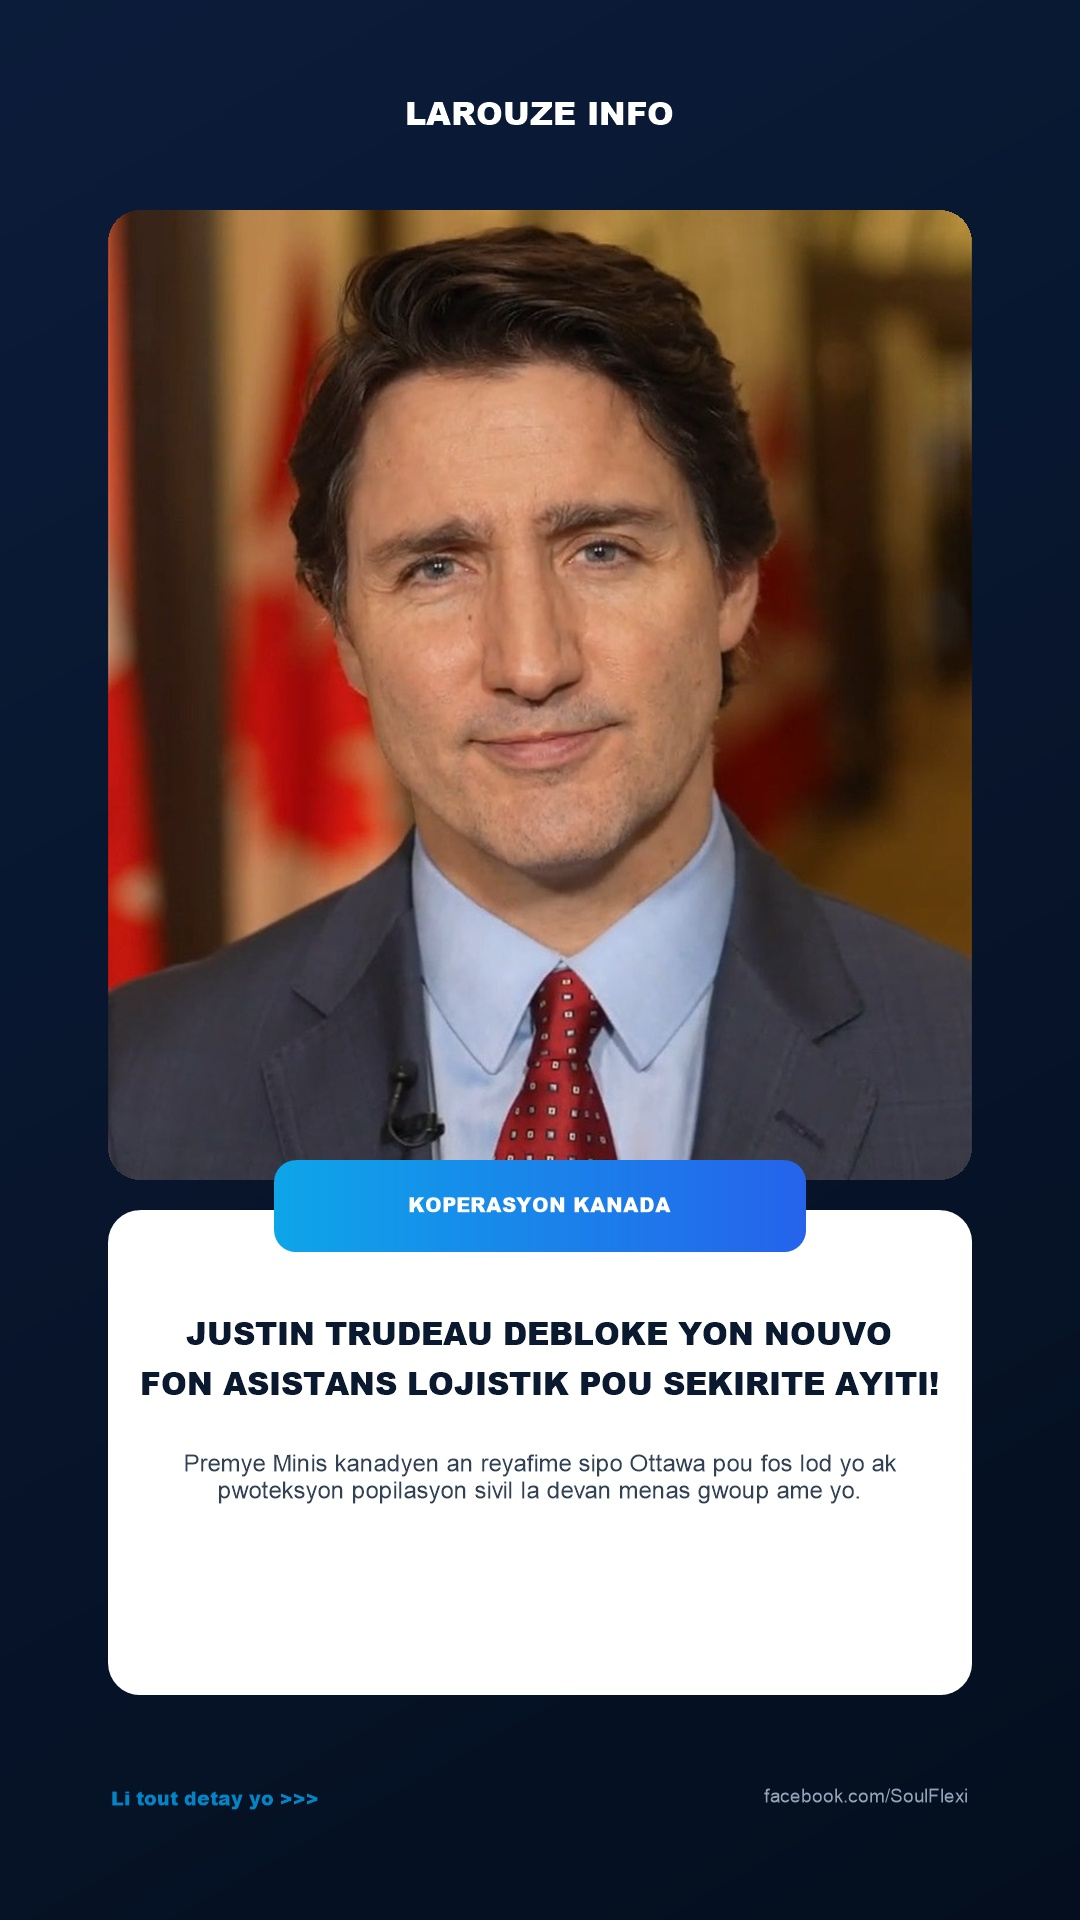
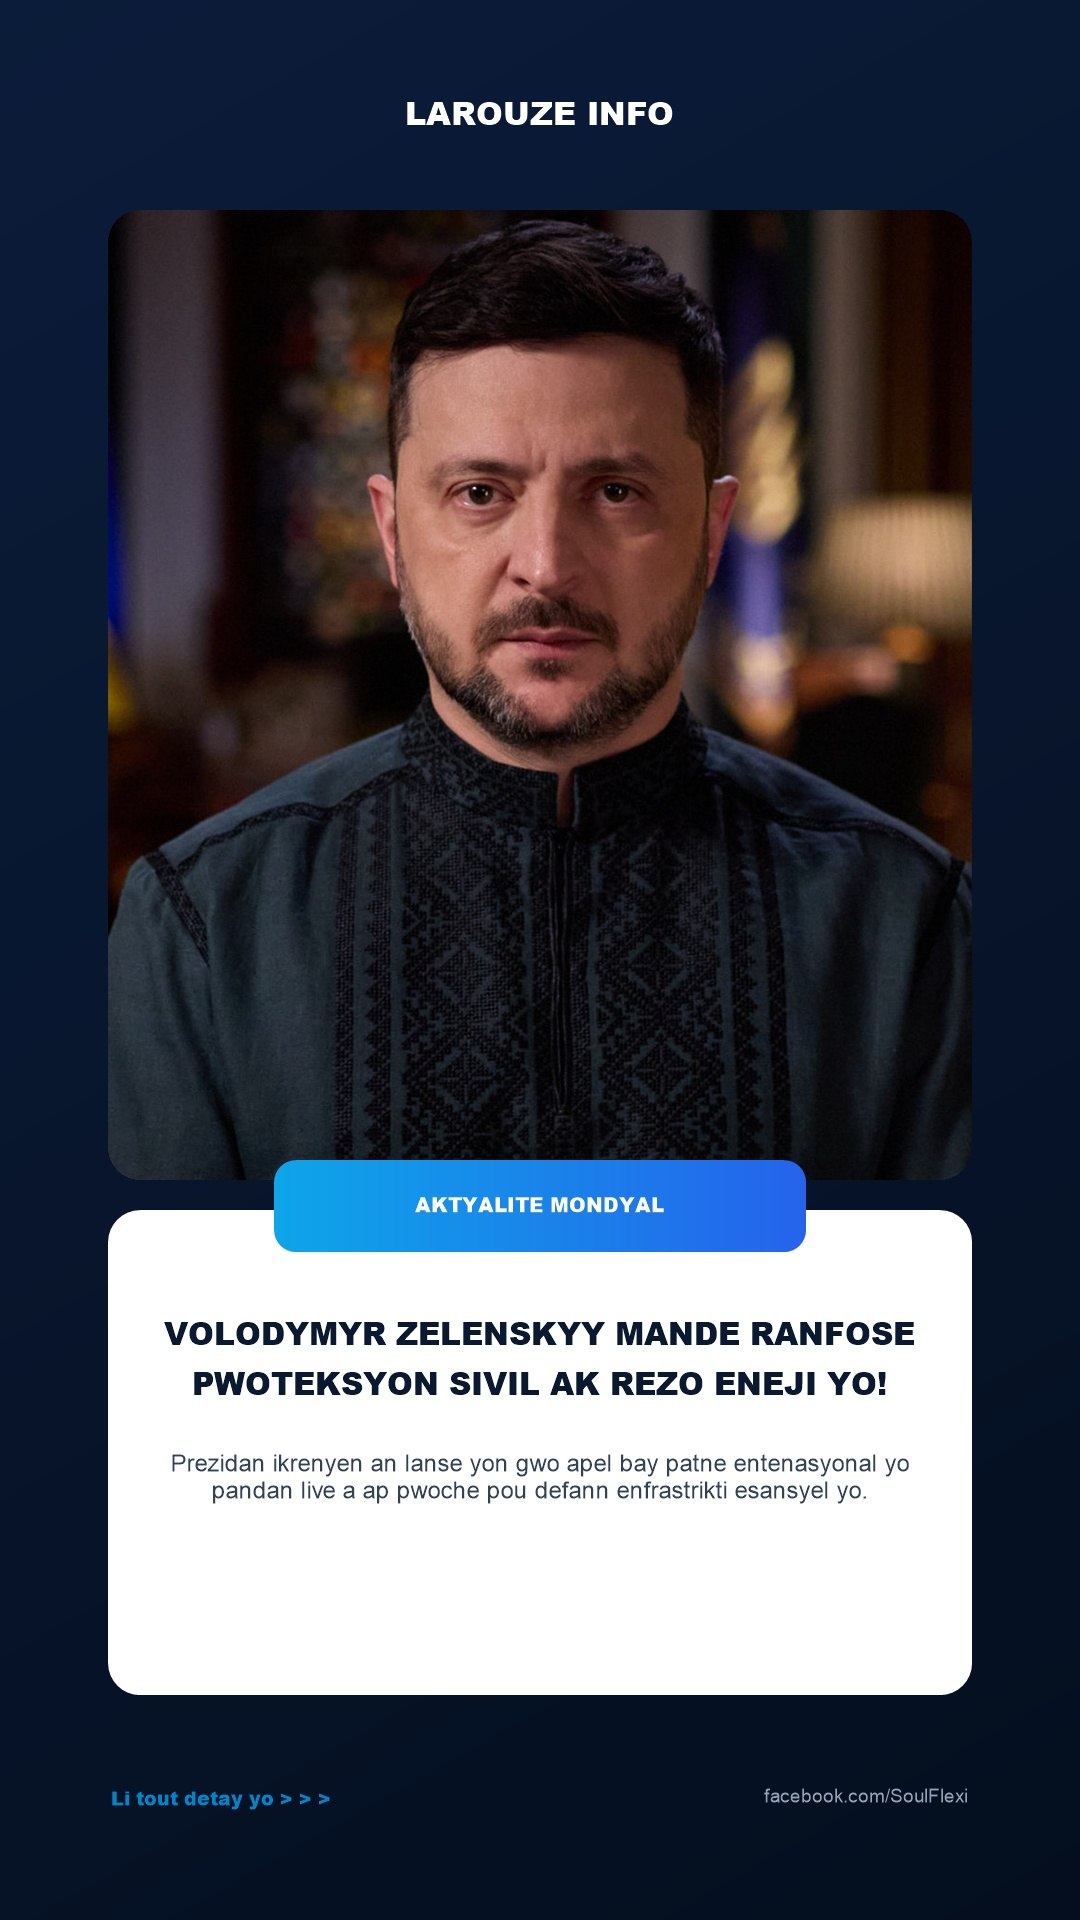
🚀 Deplwaman Lò 8: Afish HD, Tèks Kreyòl ak Sit Wèb Mobil Larouze INFO

diff --git a/index.html b/index.html
@@ -143,26 +143,26 @@
         <img src="posts/post_1/afish.jpg" alt="Afish 1" loading="lazy" />
       </div>
       <div class="card-body">
-        <h3 class="card-title">TRANZISYON AK GOUVÈNANS / GWO RANKONT ETA : PREZIDAN CPT LESLIE VOLTAIRE ANONSE NOUVO CHANTI REFÒM YO!</h3>
-        <p class="card-desc">Prezidan Konsèy Prezidansyèl Tranzisyon an (CPT), Leslie Voltaire, anonse yon nouvo faz nan kowòdinasyon estratejik ant CPT a ak Primati a pou akselere travay sou sekirite nasyonal la, refòm administratif, ak preparasyon vòt la.</p>
+        <h3 class="card-title">POLITIK AK DYALÒG NASYONAL / APÈL KONSÈY PREZIDANSYÈL LA : EDGARD LEBLANC FILS MANDE YON VRÈ KONSANSIS POU TRANZISYON AN!</h3>
+        <p class="card-desc">Nan yon entèvansyon politik sou avni peyi a, manm Konsèy Prezidansyèl Tranzisyon an (CPT), Edgard Leblanc Fils, mande pou tout aktè politik ak sosyete sivil la mete enterè pèsonèl yo sou kote pou kreye yon gwo kowalisyon nasyonal pou sove peyi a.</p>
         <div class="card-actions">
           <button class="btn btn-copy" onclick="copyText(1)">📋 KOPYE TÈKS LA</button>
           <a class="btn btn-dl" href="posts/post_1/afish.jpg" download="Larouze_Post_1.jpg">📥 TELECHAJE AFISH</a>
         </div>
-        <textarea id="text-1" class="hidden-text">🏛🇭🇹 TRANZISYON AK GOUVÈNANS / GWO RANKONT ETA : PREZIDAN CPT LESLIE VOLTAIRE ANONSE NOUVO CHANTI REFÒM YO!
+        <textarea id="text-1" class="hidden-text">🏛🇭🇹 POLITIK AK DYALÒG NASYONAL / APÈL KONSÈY PREZIDANSYÈL LA : EDGARD LEBLANC FILS MANDE YON VRÈ KONSANSIS POU TRANZISYON AN!
 
-Prezidan Konsèy Prezidansyèl Tranzisyon an (CPT), Leslie Voltaire, anonse yon nouvo faz nan kowòdinasyon estratejik ant CPT a ak Primati a pou akselere travay sou sekirite nasyonal la, refòm administratif, ak preparasyon vòt la.
+Nan yon entèvansyon politik sou avni peyi a, manm Konsèy Prezidansyèl Tranzisyon an (CPT), Edgard Leblanc Fils, mande pou tout aktè politik ak sosyete sivil la mete enterè pèsonèl yo sou kote pou kreye yon gwo kowalisyon nasyonal pou sove peyi a.
 
-📌 Voltaire souliye ke priyorite nimewo en pou pouvwa egzekitif la se kreye yon anviwònman ki stab kote sitwayen yo ka sikile lib e libè, pandan l ap mande tout sektè nasyonal yo rete mobilize pou sove peyi a.
-Prezidan CPT a fè konnen leta detèmine pou mennen batay la jiska lafen pou remete lòd nan fonksyònman enstitisyon yo ak retabli otorite leta sou tout teritwa a.
+📌 Leblanc Fils souliye ke san yon antant solid ant tout sektè vivan yo, li pral difisil pou restore sekirite a nèt epi mennen peyi a nan bon jan eleksyon transparan kote pèp la ka fè chwa li san presyon.
+Lidè politik la fè apèl ak lidè pati yo pou yo mete aksan sou estabilite enstitisyonèl la pou pèmèt fòs sekirite yo jwenn tout espas politik ki nesesè pou yo fè travay yo san antrav.
 
-💬 KISA OU PANSE SOU KOWÒDINASYON SA A?
-Ki pi gwo aksyon konkrè ou ta renmen wè CPT ak Primati a poze ansanm pou soulaje pèp la nan jou k ap vini yo? Kite opinyon pa w!
+💬 KISA W PANSE SOU APÈL SA A?
+Èske w kwè se nan tèt ansanm tout aktè politik yo Ayiti ka jwenn lapè ak estabilite? Kite kòmantè pa w!
 
 👍 LIKE | 💬 KOMANTE | 🔁 PATAJE
-👉 Swiv LAROUZE INFO pou tout enfòmasyon verifye sou desizyon ak avni gouvènans peyi a!
+👉 Swiv LAROUZE INFO pou tout vrè nouvèl ak analiz sou wout politik peyi a!
 
-#LarouzeInfo #LeslieVoltaire #CPT #TranzisyonAyiti #Gouvènman #SekiriteNasyonal #LòdAkLapè #Ayiti</textarea>
+#LarouzeInfo #EdgardLeblancFils #CPT #PolitikAyiti #DyalògNasyonal #Tranzisyon #Eleksyon #Lapè</textarea>
       </div>
     </div>
   
@@ -172,26 +172,26 @@ Ki pi gwo aksyon konkrè ou ta renmen wè CPT ak Primati a poze ansanm pou soula
         <img src="posts/post_2/afish.jpg" alt="Afish 2" loading="lazy" />
       </div>
       <div class="card-body">
-        <h3 class="card-title">KILTI AK DYASPORA / GWO SELEBRASYON SOU BOULDVA OKAP : DOMINIQUE DUPUY ANKOURAJE PWOTEKSYON PATRIMWÀN AK ENVESTISMAN LOKAL!</h3>
-        <p class="card-desc">Pandan gwo evènman "Fwa Dyaspora" k ap dewoule sou bouldva Okap la (6 ak 7 novanm), lidè kiltirèl Dominique Dupuy voye yon mesaj fò sou nesesite pou kominote ayisyen k ap viv aletranje a kontinye fè tèt kole ak peyi a pou pwoteje patrimwàn ak idantite nasyonal nou an.</p>
+        <h3 class="card-title">DIPLOMASI KANADA / ANGAJMAN IMANITÈ : MINIS MÉLANIE JOLY ANONSE YON NOUVO FON ASISTANS POU SOUF LAFANMI!</h3>
+        <p class="card-desc">Minis Afè Etranjè peyi Kanada a, Madam Mélanie Joly, anonse yon nouvo anvlòp asistans espesyal ki vize pote swen sante ijan, dlo potab ak pwoteksyon pou fanm ak timoun ki oblije kouri kite kay yo akoz vyolans nan katye vilnerab yo.</p>
         <div class="card-actions">
           <button class="btn btn-copy" onclick="copyText(2)">📋 KOPYE TÈKS LA</button>
           <a class="btn btn-dl" href="posts/post_2/afish.jpg" download="Larouze_Post_2.jpg">📥 TELECHAJE AFISH</a>
         </div>
-        <textarea id="text-2" class="hidden-text">🎨🇭🇹 KILTI AK DYASPORA / GWO SELEBRASYON SOU BOULDVA OKAP : DOMINIQUE DUPUY ANKOURAJE PWOTEKSYON PATRIMWÀN AK ENVESTISMAN LOKAL!
+        <textarea id="text-2" class="hidden-text">🇨🇦🤝 DIPLOMASI KANADA / ANGAJMAN IMANITÈ : MINIS MÉLANIE JOLY ANONSE YON NOUVO FON ASISTANS POU SOUF LAFANMI!
 
-Pandan gwo evènman "Fwa Dyaspora" k ap dewoule sou bouldva Okap la (6 ak 7 novanm), lidè kiltirèl Dominique Dupuy voye yon mesaj fò sou nesesite pou kominote ayisyen k ap viv aletranje a kontinye fè tèt kole ak peyi a pou pwoteje patrimwàn ak idantite nasyonal nou an.
+Minis Afè Etranjè peyi Kanada a, Madam Mélanie Joly, anonse yon nouvo anvlòp asistans espesyal ki vize pote swen sante ijan, dlo potab ak pwoteksyon pou fanm ak timoun ki oblije kouri kite kay yo akoz vyolans nan katye vilnerab yo.
 
-📌 Dupuy mete aksan sou richès kiltirèl ak atistik peyi a, ki se pi gwo zouti nou genyen pou fè non Ayiti briye deyò a epi atire envestisman dirèk nan kominote lokal yo.
-Patisipan yo bat bravo pou inisyativ sa a k ap pèmèt atizan, kiltivatè ak kreyatè kiltirèl nan Gran Nò a vann bèl pwodwi lokal yo bay plizyè milye vizitè.
+📌 Joly fè konnen Kanada ap kontinye fè presyon sou plan entènasyonal la pou sanksyone tout moun k ap finanse zak vyolans, pandan l ap garanti ke èd imanitè a rive dirèkteman sou teren an san entèmedyè.
+Gouvènman kanadyen an mete aksan sou sipò pou lopital ak sant sante yo pou anpeche maladi gaye nan kan refijye yo, pandan y ap kore efò polis nasyonal la pou libere espas yo.
 
-💬 AN N VOYE YON BRAVO POU DYASPORA NOU AN:
-Ki pi gwo sipò ou kwè dyaspora a ka pote jodi a pou rebati ekonomi ak kilti peyi nou an? Pataje refleksyon pa w! 🇭🇹👏
+💬 VOYE YON BÈL TI MO:
+Lè w wè sipò entènasyonal ap dirije espesyalman pou soulaje manman ak timoun piti, ki mesaj ou voye bay Minis la? Kite opinyon pa w! 🇨🇦👏
 
 👍 LIKE | 💬 KOMANTE | 🔁 PATAJE
-👉 Swiv LAROUZE INFO pou tout bèl nouvèl sou kilti, atizay, ak grandè pèp nou an!
+👉 Swiv LAROUZE INFO pou w konnen tout bèl aksyon imanitè ak koperasyon k ap fèt pou peyi a!
 
-#LarouzeInfo #DominiqueDupuy #DyasporaAyiti #Okap #FwaDyaspora #PatrimwànKiltirèl #KiltiAyiti #FyèteNasyonal</textarea>
+#LarouzeInfo #MélanieJoly #KanadaAyiti #AsistansImanitè #SanteFanm #PwoteksyonTimoun #Diplomasi #Aktyalite</textarea>
       </div>
     </div>
   
@@ -201,26 +201,26 @@ Ki pi gwo sipò ou kwè dyaspora a ka pote jodi a pou rebati ekonomi ak kilti pe
         <img src="posts/post_3/afish.jpg" alt="Afish 3" loading="lazy" />
       </div>
       <div class="card-body">
-        <h3 class="card-title">KOPERASYON ENTÈNASYONAL / NOUVO SIPÒ KANADA : PREMYE MINIS JUSTIN TRUDEAU ANONSE NOUVO EKIPMAN POU FÒS SEKIRITE YO!</h3>
-        <p class="card-desc">Premye Minis peyi Kanada, Justin Trudeau, konfime debousman yon nouvo anvlòp asistans finansyè ak lojistik espesyal pou ranfòse kapasite operasyonèl fòs sekirite yo an Ayiti, patikilyèman nan domèn ekipman pwoteksyon ak fòmasyon taktik.</p>
+        <h3 class="card-title">AKTYALITE MONDYAL / SIVEYANS ENÈJI AK KLIMA : PREZIDAN VOLODYMYR ZELENSKYY MANDE PWOTEKSYON POU REZO ELEKTRIK YO!</h3>
+        <p class="card-desc">Pandan sezon livè a ap pwoche sou kontinan Ewopeyen an, Prezidan Volodymyr Zelenskyy lanse yon gwo alèt bay tout nasyon alye yo pou yo ogmante sistèm defans kont atak sou estasyon kouran ak rezo distribisyon gaz yo.</p>
         <div class="card-actions">
           <button class="btn btn-copy" onclick="copyText(3)">📋 KOPYE TÈKS LA</button>
           <a class="btn btn-dl" href="posts/post_3/afish.jpg" download="Larouze_Post_3.jpg">📥 TELECHAJE AFISH</a>
         </div>
-        <textarea id="text-3" class="hidden-text">🇨🇦🤝 KOPERASYON ENTÈNASYONAL / NOUVO SIPÒ KANADA : PREMYE MINIS JUSTIN TRUDEAU ANONSE NOUVO EKIPMAN POU FÒS SEKIRITE YO!
+        <textarea id="text-3" class="hidden-text">🌍⚡ AKTYALITE MONDYAL / SIVEYANS ENÈJI AK KLIMA : PREZIDAN VOLODYMYR ZELENSKYY MANDE PWOTEKSYON POU REZO ELEKTRIK YO!
 
-Premye Minis peyi Kanada, Justin Trudeau, konfime debousman yon nouvo anvlòp asistans finansyè ak lojistik espesyal pou ranfòse kapasite operasyonèl fòs sekirite yo an Ayiti, patikilyèman nan domèn ekipman pwoteksyon ak fòmasyon taktik.
+Pandan sezon livè a ap pwoche sou kontinan Ewopeyen an, Prezidan Volodymyr Zelenskyy lanse yon gwo alèt bay tout nasyon alye yo pou yo ogmante sistèm defans kont atak sou estasyon kouran ak rezo distribisyon gaz yo.
 
-📌 Trudeau reyafime angajman Kanada pou l kanpe bò kote pèp ayisyen an nan moman difisil sa a, pandan l ap mande kominote entènasyonal la kowòdone pi byen efò yo pou garanti lapè dirab.
-Gouvènman kanadyen an souliye ke mezi sa yo vize ede fòs lòd yo reprann kontwòl zòn vilnerab yo pou pèmèt èd imanitè ak medikal rive san danje jwenn popilasyon an.
+📌 Zelenskyy eksplike ke pwoteje sous enèji yo se yon kesyon lavi oswa lanmò pou plizyè milyon fanmi ak timoun ki bezwen chofaj ak dlo cho pou pase sezon fredi a.
+Ajans entènasyonal yo (IOM ak Nasyonzini) souliye ke estabilite rezo enèji a esansyèl pou anpeche nouvo vag deplasman popilasyon nan tout rejyon an.
 
-💬 KISA W PANSE SOU ÈD SA A?
-Ki ekipman ou kwè ki pi ijan pou fòs polis nou yo resevwa kounye a sou teren an? Kite opinyon pa w nan kòmantè!
+💬 KISA W PANSE SOU KESTYON ENÈJI A?
+Lè w wè jan tout mond lan ap goumen pou pwoteje kouran ak enèji yo, ki leson nou ta dwe tire lakay nou pou sistèm elektrik nou an? Pataje lide pa w!
 
 👍 LIKE | 💬 KOMANTE | 🔁 PATAJE
-👉 Swiv LAROUZE INFO pou analiz klè ak enfòmasyon verifye sou koperasyon entènasyonal la!
+👉 Swiv LAROUZE INFO pou enfòmasyon verifye sou tout gwo evènman k ap sekwe planèt la!
 
-#LarouzeInfo #JustinTrudeau #KanadaAyiti #Sekirite #Koperasyon #LapolisNasyonal #Lapè #Aktyalite</textarea>
+#LarouzeInfo #VolodymyrZelenskyy #Ikrèn #EnèjiMondyal #Kouran #PwoteksyonSivil #AktyaliteEntènasyonal</textarea>
       </div>
     </div>
   
@@ -230,26 +230,26 @@ Ki ekipman ou kwè ki pi ijan pou fòs polis nou yo resevwa kounye a sou teren a
         <img src="posts/post_4/afish.jpg" alt="Afish 4" loading="lazy" />
       </div>
       <div class="card-body">
-        <h3 class="card-title">DIPLOMASI AK SEKIRITE MARITIM / ANGAJMAN LAFRANS : PREZIDAN EMMANUEL MACRON ANONSE NOUVO PWOGRAM FÒMASYON POU GADKÒT AYISYEN AN!</h3>
-        <p class="card-desc">Prezidan franse a, Emmanuel Macron, fè konnen Lafrans ap ranfòse patenarya li ak Ayiti nan domèn sekirite maritim ak fòmasyon inite espesyalize pou kontwole kòt yo ak fwontyè maritim yo.</p>
+        <h3 class="card-title">TEKNOLOJI AK ENTÈLIJANS ATIFISYÈL / YON GWO PWOGRÈ DIJITAL : SUNDAR PICHAI ANONSE IA KI TRADUI KREYÒL SAN BEZWEN ENTÈNÈT!</h3>
+        <p class="card-desc">Chèf konpayi Google la, Sundar Pichai, prezante yon nouvo zouti Entèlijans Atifisyèl (IA) avanse ki kapab tande, konprann epi tradui Kreyòl Ayisyen an dirèk sou telefòn san bezwen okenn koneksyon entènèt oswa rezo wi-fi!</p>
         <div class="card-actions">
           <button class="btn btn-copy" onclick="copyText(4)">📋 KOPYE TÈKS LA</button>
           <a class="btn btn-dl" href="posts/post_4/afish.jpg" download="Larouze_Post_4.jpg">📥 TELECHAJE AFISH</a>
         </div>
-        <textarea id="text-4" class="hidden-text">🇫🇷🌊 DIPLOMASI AK SEKIRITE MARITIM / ANGAJMAN LAFRANS : PREZIDAN EMMANUEL MACRON ANONSE NOUVO PWOGRAM FÒMASYON POU GADKÒT AYISYEN AN!
+        <textarea id="text-4" class="hidden-text">💻🌐 TEKNOLOJI AK ENTÈLIJANS ATIFISYÈL / YON GWO PWOGRÈ DIJITAL : SUNDAR PICHAI ANONSE IA KI TRADUI KREYÒL SAN BEZWEN ENTÈNÈT!
 
-Prezidan franse a, Emmanuel Macron, fè konnen Lafrans ap ranfòse patenarya li ak Ayiti nan domèn sekirite maritim ak fòmasyon inite espesyalize pou kontwole kòt yo ak fwontyè maritim yo.
+Chèf konpayi Google la, Sundar Pichai, prezante yon nouvo zouti Entèlijans Atifisyèl (IA) avanse ki kapab tande, konprann epi tradui Kreyòl Ayisyen an dirèk sou telefòn san bezwen okenn koneksyon entènèt oswa rezo wi-fi!
 
-📌 Macron deklare ke Lafrans ap voye ekspè teknik pou antrene gadkòt ayisyen an nan jesyon bato entèsepsyon ak siveyans radyo pou kwape trafik ilegal sou lanmè.
-Desizyon sa a vini nan yon moman kote Leta ayisyen ap fè gwo efò pou relanse kabotaj maritim ak komès ant vil pwovens yo san kè sote.
+📌 Nouvo teknoloji sa a ap pèmèt medsen, etidyan ak vwayajè kominike fasil nan nenpòt lang etranje pandan y ap pale Kreyòl natirèl dirèkteman nan mikwo telefòn yo.
+Pichai eksplike ke inisyativ sa a vize kraze tout baryè langaj epi mete pouvwa IA a nan men tout popilasyon san distenksyon, patikilyèman nan domèn edikasyon ak sèvis medikal ijans.
 
-💬 KISA W PANSE SOU RANFÒSMAN GADKÒT LA?
-Èske w kwè se lè nou sekirize lanmè a n ap ka anpeche zam antre fasil nan peyi a? Bay lide pa w!
+💬 ÈSKE W PA WÈ SA SE YON BÈL FYÈTE?
+Wè lang Kreyòl nou an ap pran plas li nan pi gwo zouti teknolojik mondyal yo, ki santiman sa ba ou kòm Ayisyen? Kite yon bèl ti mo fyète! 🇭🇹📱
 
 👍 LIKE | 💬 KOMANTE | 🔁 PATAJE
-👉 Swiv LAROUZE INFO pou tout gwo devlopman sou diplomasi ak sekirite nasyonal la!
+👉 Swiv LAROUZE INFO pou tout dènye mèvèy teknolojik ak inovasyon k ap chanje lavi nou!
 
-#LarouzeInfo #EmmanuelMacron #LafransAyiti #Gadkòt #SekiriteMaritim #Diplomasi #FòmasyonTaktik #Aktyalite</textarea>
+#LarouzeInfo #SundarPichai #Google #EntèlijansAtifisyèl #IA #KreyòlAyisyen #Teknoloji #TradiksyonKreyòl #FyèteNasyonal</textarea>
       </div>
     </div>
   
@@ -259,26 +259,26 @@ Desizyon sa a vini nan yon moman kote Leta ayisyen ap fè gwo efò pou relanse k
         <img src="posts/post_5/afish.jpg" alt="Afish 5" loading="lazy" />
       </div>
       <div class="card-body">
-        <h3 class="card-title">SYANS AK LESPAS / YON GWO PWOSTÈ POU KARAYIB LA : CHÈF NASA BILL NELSON PREZANTE NOUVO SATELIT POU SIVEYE SIKLÒN AK DEZAS NATIRÈL!</h3>
-        <p class="card-desc">Administratè Jeneral ajans espasyal ameriken an (NASA), Bill Nelson, inogire yon nouvo sistèm satelit entèlijan ki kapab prevwa trajectoire gwo tanpèt, siklòn ak inondasyon 5 jou davans avèk yon presizyon san parèy pou pwoteje peyi nan Karayib la!</p>
+        <h3 class="card-title">EKONOMI AK LADWÀN / DESIZYON POU SOUKOU REPOZ LETA : PREMYE MINIS FILS-AIMÉ BAY LÒD RANFÒSE KONTWÒL SOU WAF YO!</h3>
+        <p class="card-desc">Chèf Gouvènman an, Premye Minis Alix Didier Fils-Aimé, bay Direksyon Jeneral Ladwàn (AGD) ak Otorite Pòtè Nasyonal (APN) lòd pou ogmante enspeksyon rigoure sou tout bato, veso ak kontènè k ap debake nan tout pò peyi a.</p>
         <div class="card-actions">
           <button class="btn btn-copy" onclick="copyText(5)">📋 KOPYE TÈKS LA</button>
           <a class="btn btn-dl" href="posts/post_5/afish.jpg" download="Larouze_Post_5.jpg">📥 TELECHAJE AFISH</a>
         </div>
-        <textarea id="text-5" class="hidden-text">🚀🛰 SYANS AK LESPAS / YON GWO PWOSTÈ POU KARAYIB LA : CHÈF NASA BILL NELSON PREZANTE NOUVO SATELIT POU SIVEYE SIKLÒN AK DEZAS NATIRÈL!
+        <textarea id="text-5" class="hidden-text">⚓📦 EKONOMI AK LADWÀN / DESIZYON POU SOUKOU REPOZ LETA : PREMYE MINIS FILS-AIMÉ BAY LÒD RANFÒSE KONTWÒL SOU WAF YO!
 
-Administratè Jeneral ajans espasyal ameriken an (NASA), Bill Nelson, inogire yon nouvo sistèm satelit entèlijan ki kapab prevwa trajectoire gwo tanpèt, siklòn ak inondasyon 5 jou davans avèk yon presizyon san parèy pou pwoteje peyi nan Karayib la!
+Chèf Gouvènman an, Premye Minis Alix Didier Fils-Aimé, bay Direksyon Jeneral Ladwàn (AGD) ak Otorite Pòtè Nasyonal (APN) lòd pou ogmante enspeksyon rigoure sou tout bato, veso ak kontènè k ap debake nan tout pò peyi a.
 
-📌 Nelson eksplike ke done satelit sa yo ap disponib gratis pou tout sant meteyo nan rejyon an pou pèmèt popilasyon yo ak pechè yo pran tout prekosyon anvan move tan rive.
-Nouvo zouti espasyal sa a pral ede sove plizyè milye lavi epi diminye dega sou rekòlt agrikòl ak kay moun nan peyi ki pi frajil devan chanjman klimatik yo.
+📌 Fils-Aimé mete aksan sou nesesite pou kwape tout tantativ kontrebann ak fwod fiskal pou garanti resous leta yo antre nan kès piblik la pou finanse sekirite ak sèvis pèp la.
+Premye Minis la souliye tou ke kontwòl sa yo dwe fèt avèk teknoloji skanè modèn pou evite ralanti komès nòmal machandiz ak manje popilasyon an bezwen chak jou.
 
-💬 KISA W PANSE SOU ZOUTI TEKNOLOJIK SA A?
-Èske w kwè alèt bonè sa yo ka ede peyi nou an pi byen prepare chak fwa sezon siklòn lan louvri? Pataje refleksyon pa w!
+💬 KISA W PANSE SOU MEZI SA YO?
+Èske w kwè se lè Leta byen kontwole pò yo n ap ka anpeche zam antre epi ogmante lajan pou devlope peyi a? Bay opinyon pa w!
 
 👍 LIKE | 💬 KOMANTE | 🔁 PATAJE
-👉 Swiv LAROUZE INFO pou tout bèl dekouvèt syantifik ak teknoloji k ap pwoteje lavi sou latè!
+👉 Swiv LAROUZE INFO pou tout desizyon ekonomik ak gouvènans k ap pran pou peyi a!
 
-#LarouzeInfo #BillNelson #NASA #Lespas #Satelit #Karayib #Siklòn #SyansModèn #PwoteksyonSivil</textarea>
+#LarouzeInfo #AlixDidierFilsAimé #LadwànAyiti #AGD #PòtèNasyonal #EkonomiAyiti #LitKontKontrebann #SekiriteNasyonal</textarea>
       </div>
     </div>
   
